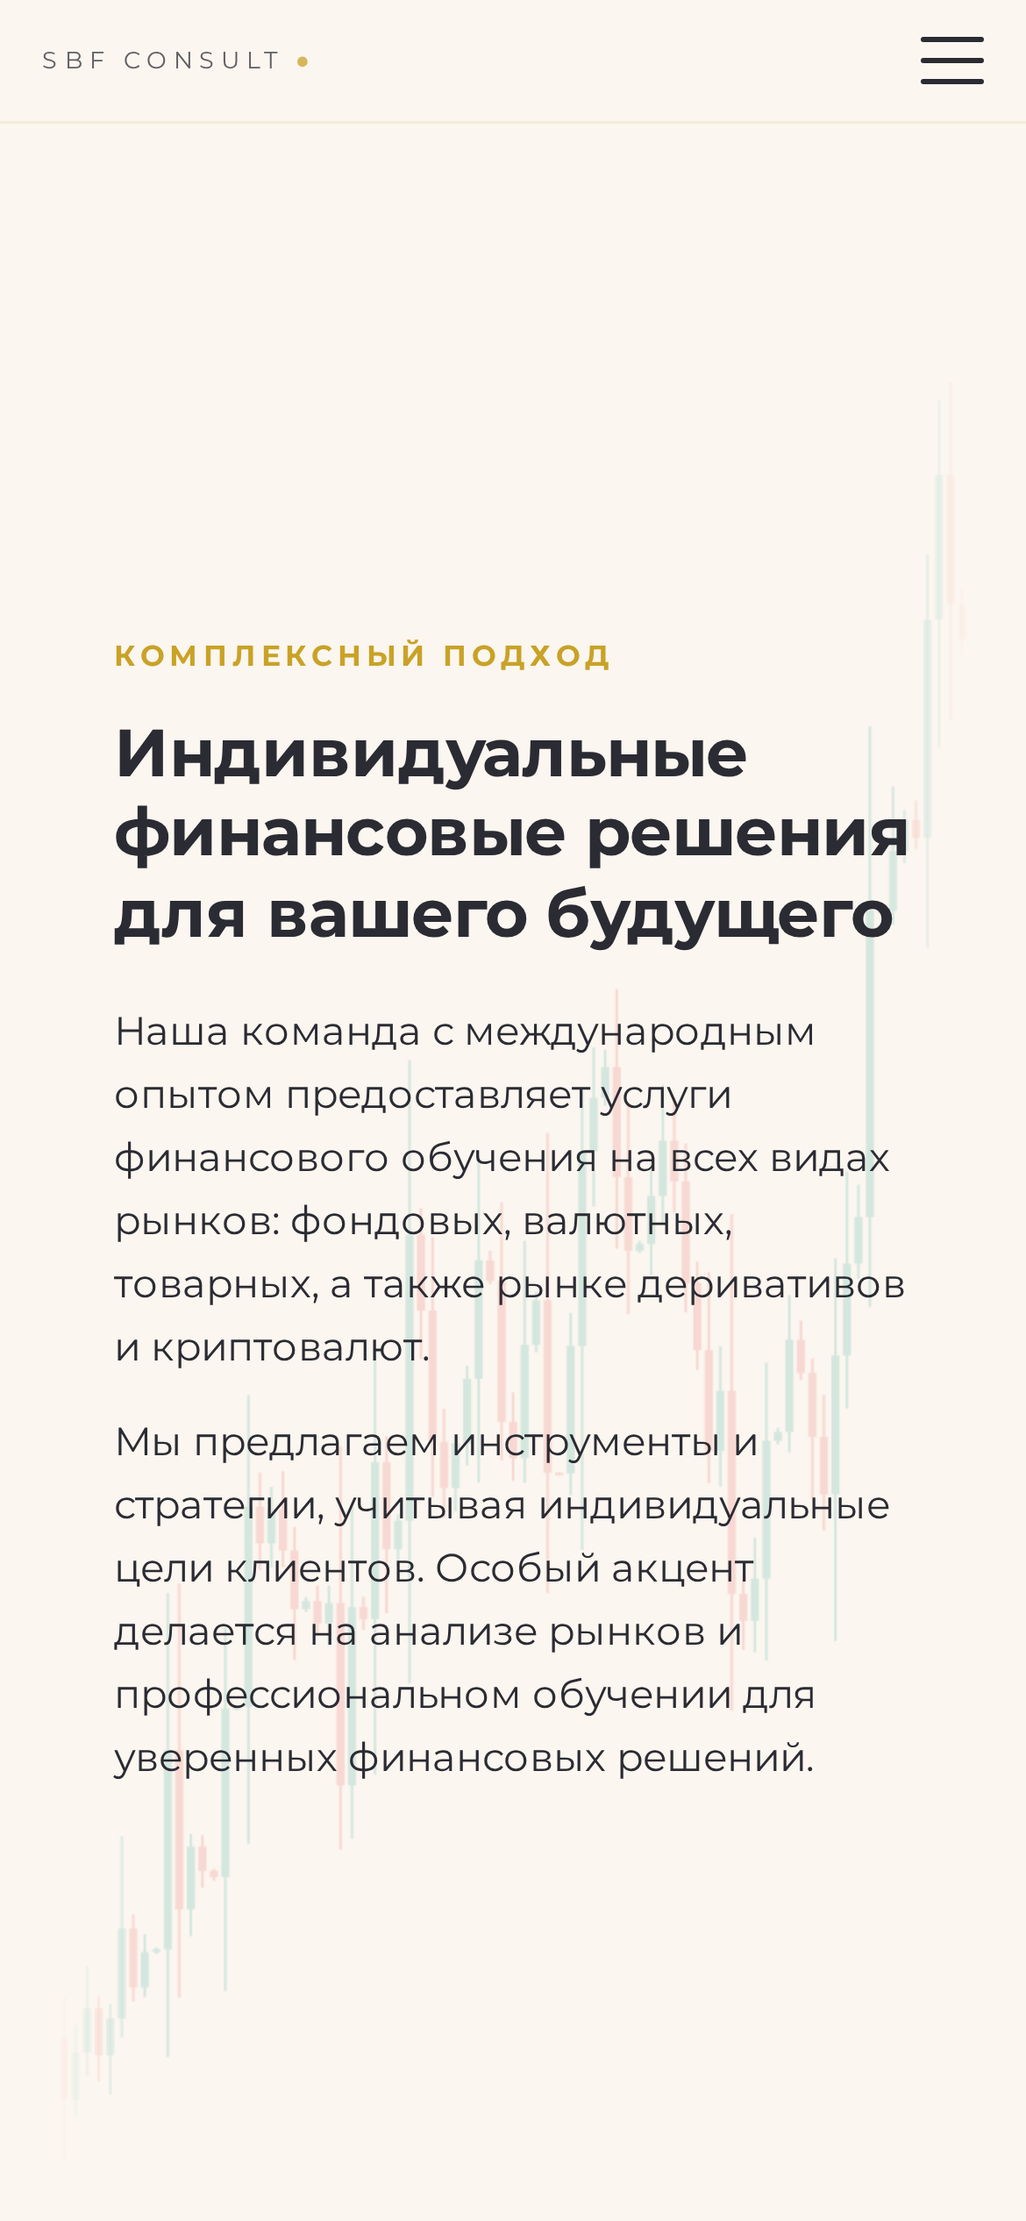
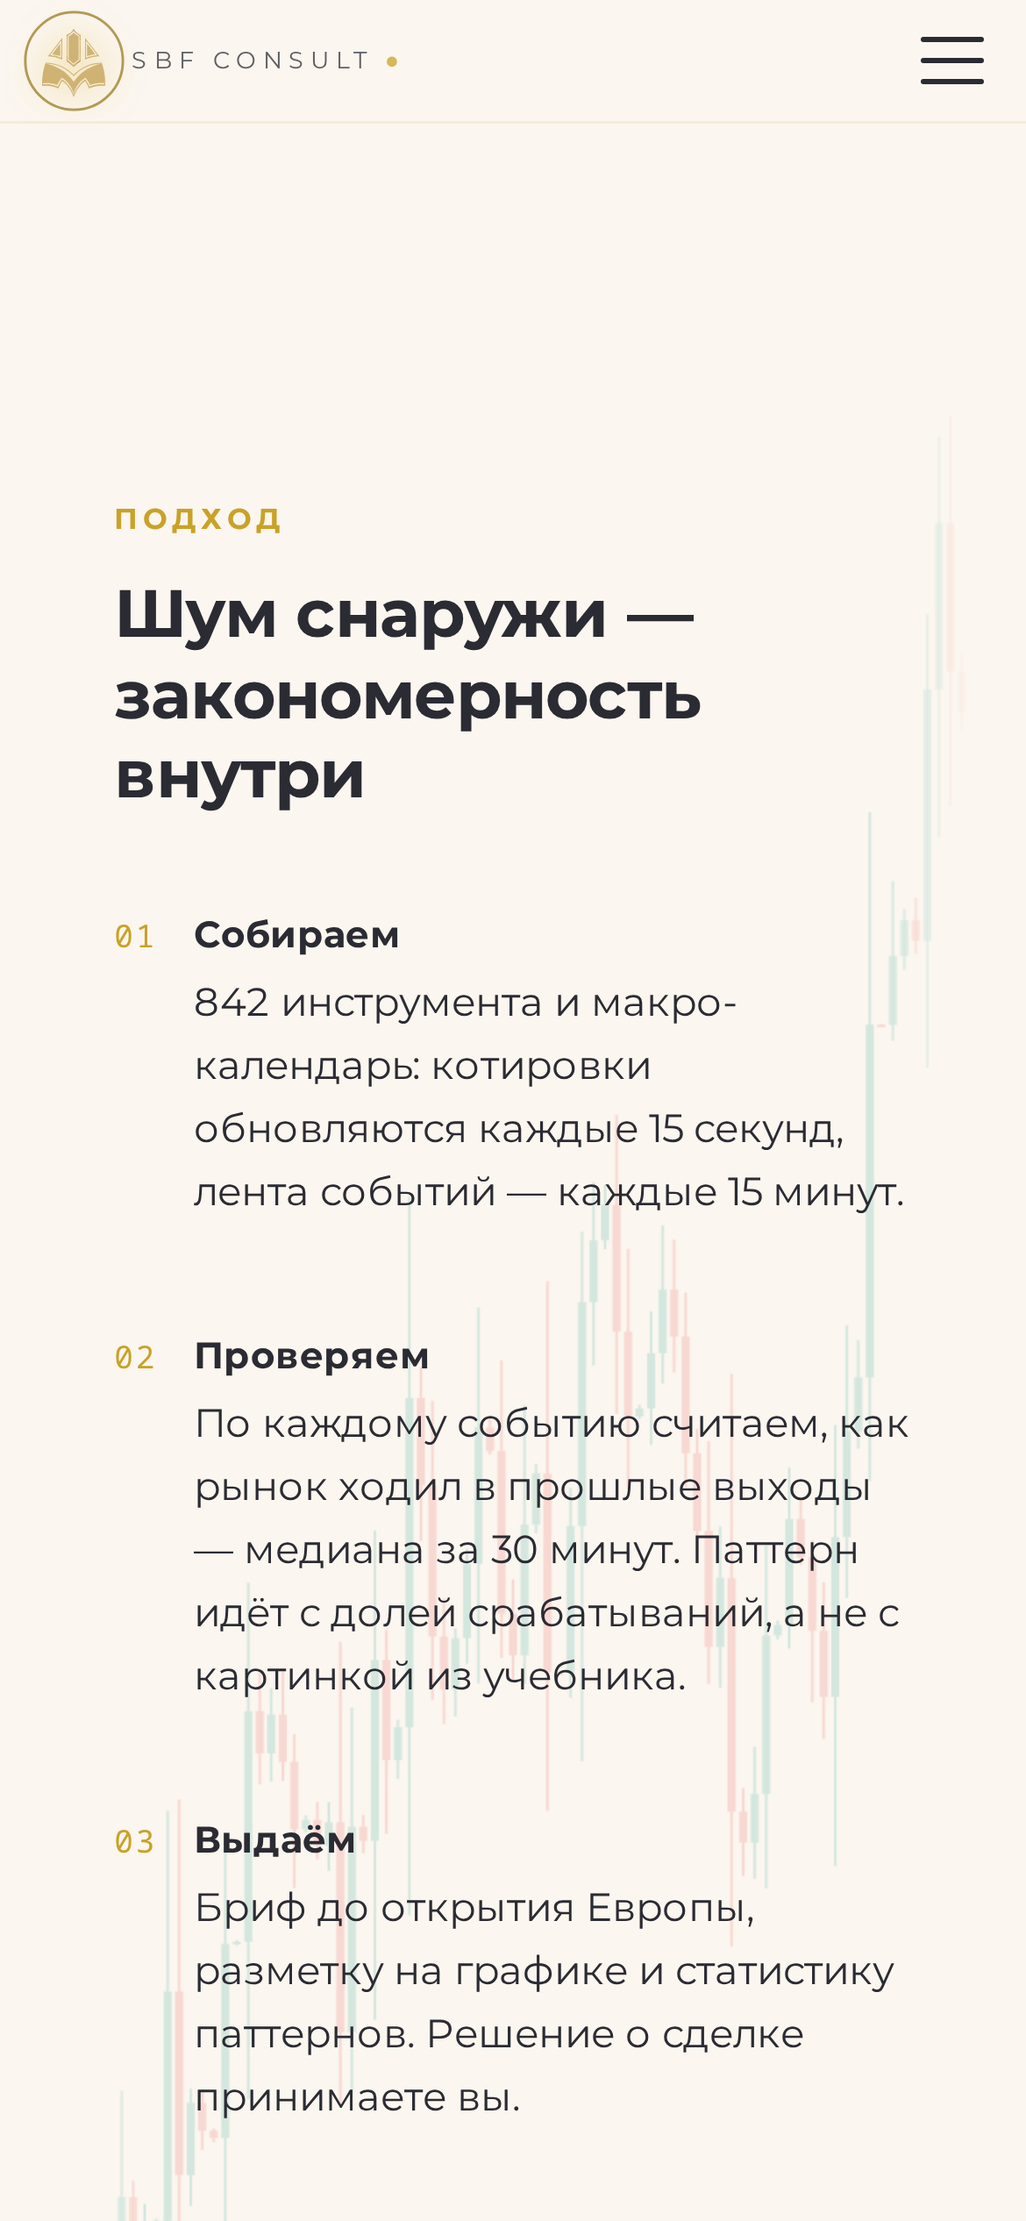
3 экран — подход: три шага с числами вместо двух общих абзацев
- было «Индивидуальные финансовые решения для вашего будущего» и два абзаца,
  которые подошли бы любой компании; стало «Шум снаружи — закономерность внутри»
  и конвейер: собираем (842 инструмента, 15 сек / 15 мин) → проверяем (медиана
  хода за 30 мин по прошлым выходам, доля срабатываний паттерна) → выдаём
  (бриф, разметка, статистика; решение за клиентом)
- легенда линзы: уровень / SMA 20 / паттерн — цвета совпадают с отрисовкой,
  без неё разметка внутри кольца читалась как узор
- лента замирает при наведении на график: рассмотреть разметку на ходу
  было невозможно
- ссылка «как это выглядит в терминале» на живой график XAUUSD
- сцена подхода была жёстко 100vh и с вертикальным центрированием: с тремя
  шагами текст вылезал за оба края, на низком окне третий шаг обрезался —
  высота стала естественной, колонка прижата к верху

diff --git a/js/i18n.js b/js/i18n.js
@@ -69,10 +69,13 @@ ru: {
   },
   approach: {
     lens_cap: 'Снаружи — шум. Внутри — уровни, средняя, паттерн',
-    eyebrow: 'Комплексный подход',
-    heading: 'Индивидуальные финансовые решения для вашего будущего',
-    p1: 'Наша команда с международным опытом предоставляет услуги финансового обучения на всех видах рынков: фондовых, валютных, товарных, а также рынке деривативов и криптовалют.',
-    p2: 'Мы предлагаем инструменты и стратегии, учитывая индивидуальные цели клиентов. Особый акцент делается на анализе рынков и профессиональном обучении для уверенных финансовых решений.',
+    eyebrow: 'Подход',
+    heading: 'Шум снаружи — закономерность внутри',
+    s1: { t: 'Собираем', p: '842 инструмента и макро-календарь: котировки обновляются каждые 15 секунд, лента событий — каждые 15 минут.' },
+    s2: { t: 'Проверяем', p: 'По каждому событию считаем, как рынок ходил в прошлые выходы — медиана за 30 минут. Паттерн идёт с долей срабатываний, а не с картинкой из учебника.' },
+    s3: { t: 'Выдаём', p: 'Бриф до открытия Европы, разметку на графике и статистику паттернов. Решение о сделке принимаете вы.' },
+    cta: 'Как это выглядит в терминале →',
+    lg_level: 'уровень', lg_sma: 'SMA 20', lg_pat: 'паттерн',
   },
   platform: {
     cta: 'ОТКРЫТЬ ПЛАТФОРМУ →',
@@ -357,10 +360,13 @@ en: {
   },
   approach: {
     lens_cap: 'Outside — noise. Inside — levels, average, pattern',
-    eyebrow: 'Comprehensive Approach',
-    heading: 'Individual financial solutions for your future',
-    p1: 'Our internationally experienced team provides financial education services across equity, currency, commodity, derivative, and cryptocurrency markets.',
-    p2: 'We offer tools and strategies tailored to individual client goals, with a strong emphasis on market analysis and professional education for confident financial decisions.',
+    eyebrow: 'Approach',
+    heading: 'Noise outside — pattern inside',
+    s1: { t: 'We collect', p: '842 instruments and the macro calendar: quotes refresh every 15 seconds, the event feed every 15 minutes.' },
+    s2: { t: 'We verify', p: 'For every event we measure how the market moved on previous releases — median over 30 minutes. Each pattern comes with a hit rate, not a textbook picture.' },
+    s3: { t: 'We deliver', p: 'A brief before the European open, markup on the chart and pattern statistics. The trading decision stays yours.' },
+    cta: 'See it in the terminal →',
+    lg_level: 'level', lg_sma: 'SMA 20', lg_pat: 'pattern',
   },
   platform: {
     cta: 'OPEN PLATFORM →',
@@ -644,11 +650,14 @@ ro: {
     cta:       'Deschide platforma →',
   },
   approach: {
-    lens_cap: 'În afară — zgomot. Înăuntru — niveluri, medie, tipar',
-    eyebrow: 'Abordare Complexă',
-    heading: 'Soluții financiare personalizate pentru viitorul tău',
-    p1: 'Echipa noastră cu experiență internațională oferă servicii de educație financiară pe toate tipurile de piețe: acțiuni, valutare, mărfuri, derivate și criptomonede.',
-    p2: 'Oferim instrumente și strategii adaptate obiectivelor individuale ale clienților. Accentul special se pune pe analiza piețelor și formarea profesională pentru decizii financiare sigure.',
+    lens_cap: 'În exterior — zgomot. În interior — niveluri, media, tipar',
+    eyebrow: 'Abordare',
+    heading: 'Zgomot în exterior — tipar în interior',
+    s1: { t: 'Colectăm', p: '842 de instrumente și calendarul macro: cotațiile se actualizează la 15 secunde, fluxul de evenimente la 15 minute.' },
+    s2: { t: 'Verificăm', p: 'Pentru fiecare eveniment măsurăm cum s-a mișcat piața la publicările anterioare — mediana pe 30 de minute. Fiecare tipar vine cu rata de confirmare, nu cu o poză din manual.' },
+    s3: { t: 'Livrăm', p: 'Briefing înainte de deschiderea Europei, marcaj pe grafic și statistica tiparelor. Decizia de tranzacționare vă aparține.' },
+    cta: 'Cum arată în terminal →',
+    lg_level: 'nivel', lg_sma: 'SMA 20', lg_pat: 'tipar',
   },
   platform: {
     cta: 'DESCHIDE PLATFORMA →',

diff --git a/css/scroll-mode.css b/css/scroll-mode.css
@@ -283,6 +283,69 @@ html { scroll-behavior: smooth; }
 }
 
 
+/* ── Подход: три шага ────────────────────────────────────────────────────
+   Вместо двух абзацев «про международный опыт» — конвейер из трёх шагов,
+   в каждом число, которое можно проверить в самом продукте. */
+.approach-steps { list-style: none; margin: 22px 0 0; padding: 0; }
+.approach-steps li {
+  display: grid; grid-template-columns: auto 1fr; gap: 2px 14px;
+  padding: 14px 0; border-top: 1px solid var(--line);
+}
+.approach-steps li:last-child { border-bottom: 1px solid var(--line); }
+.approach-steps .step-n {
+  grid-row: 1 / span 2;
+  font-family: 'JetBrains Mono', monospace; font-size: 12px;
+  color: var(--gold); letter-spacing: 0.08em; padding-top: 2px;
+}
+.approach-steps b {
+  font-family: 'Montserrat', sans-serif; font-size: 14px; font-weight: 700;
+  color: var(--ink); letter-spacing: 0.02em;
+}
+.approach-steps p {
+  margin: 4px 0 0; font-family: 'Montserrat', sans-serif;
+  font-size: 13px; line-height: 1.55; color: #55555F;
+}
+.approach-link {
+  display: inline-block; margin-top: 18px;
+  font-family: 'Montserrat', sans-serif; font-size: 12px; font-weight: 600;
+  letter-spacing: 0.08em; text-transform: uppercase;
+  color: var(--gold-deep); text-decoration: none;
+  border-bottom: 1px solid rgba(201, 162, 39, 0.4);
+}
+.approach-link:hover { border-bottom-color: currentColor; }
+/* На ноутбучном экране (800–860px) ссылка уезжала под сгиб: три шага с
+   заголовком занимали всю высоту. Поджимаем отступы, а не режем текст. */
+@media (min-width: 1024px) and (max-height: 900px) {
+  /* Колонка текста вертикально центрируется в 100vh. Пока в ней было два
+     абзаца, это выглядело спокойно; с тремя шагами и ссылкой она стала
+     выше окна и вылезала за оба края. Прижимаем к верху свободной полосы. */
+  /* Сцена жёстко 100vh: на низком окне (680px) третий шаг обрезался краем.
+     Отдаём ей естественную высоту — секция просто станет чуть выше окна. */
+  #approach-stage { align-items: start; height: auto; min-height: 100vh; padding-bottom: 28px; }
+  #approach-copy { padding-top: 10px; }
+  #approach-copy h2 { font-size: 28px; line-height: 1.15; }
+  .approach-steps { margin-top: 12px; }
+  .approach-steps li { padding: 8px 0; }
+  .approach-steps p { font-size: 12px; line-height: 1.4; }
+  .approach-link { margin-top: 10px; }
+}
+
+/* Легенда линзы: цвета совпадают с тем, что рисует GoldTape внутри кольца */
+.lens-legend {
+  position: absolute; left: 50%; bottom: 8%;
+  transform: translateX(-50%);
+  display: flex; gap: 16px; list-style: none; margin: 0; padding: 0;
+  font-family: 'JetBrains Mono', monospace; font-size: 10px;
+  letter-spacing: 0.1em; text-transform: uppercase; color: var(--muted);
+  pointer-events: none;
+}
+.lens-legend li { display: flex; align-items: center; gap: 6px; }
+.lens-legend i { width: 14px; height: 0; border-top: 2px solid currentColor; display: block; }
+.lens-legend .lg-level i { border-top-style: dashed; color: var(--gold-deep); }
+.lens-legend .lg-sma i { color: var(--gold); }
+.lens-legend .lg-pat i { border-top: 0; height: 8px; width: 8px; border-radius: 50%; background: var(--glow, #E6C257); }
+@media (max-width: 900px) { .lens-legend { display: none; } }
+
 /* ── Вход на act-platform-1 ──────────────────────────────────────────────
    --gate идёт от 0 до 1 вместе с кольцом (ставит js/logo.js через
    data-part → здесь читается как переменная). Пока 0 — скриншот размыт

diff --git a/index.html b/index.html
@@ -338,10 +338,28 @@
   <section class="snap-stop" id="act-approach">
     <div id="approach-stage">
       <div id="approach-copy">
-        <p class="eyebrow" data-i18n="approach.eyebrow">Комплексный подход</p>
-        <h2 data-i18n="approach.heading">Индивидуальные финансовые решения для вашего будущего</h2>
-        <p data-i18n="approach.p1">Наша команда с международным опытом предоставляет услуги финансового обучения на всех видах рынков: фондовых, валютных, товарных, а также рынке деривативов и криптовалют.</p>
-        <p data-i18n="approach.p2">Мы предлагаем инструменты и стратегии, учитывая индивидуальные цели клиентов. Особый акцент делается на анализе рынков и профессиональном обучении для уверенных финансовых решений.</p>
+        <p class="eyebrow" data-i18n="approach.eyebrow">Подход</p>
+        <h2 data-i18n="approach.heading">Шум снаружи — закономерность внутри</h2>
+        <!-- Три шага вместо двух абзацев, которые подошли бы любой компании.
+             В каждом шаге — число, которое можно проверить в продукте. -->
+        <ol class="approach-steps">
+          <li>
+            <span class="step-n">01</span>
+            <b data-i18n="approach.s1.t">Собираем</b>
+            <p data-i18n="approach.s1.p">842 инструмента и макро-календарь: котировки обновляются каждые 15 секунд, лента событий — каждые 15 минут.</p>
+          </li>
+          <li>
+            <span class="step-n">02</span>
+            <b data-i18n="approach.s2.t">Проверяем</b>
+            <p data-i18n="approach.s2.p">По каждому событию считаем, как рынок ходил в прошлые выходы — медиана за 30 минут. Паттерн идёт с долей срабатываний, а не с картинкой из учебника.</p>
+          </li>
+          <li>
+            <span class="step-n">03</span>
+            <b data-i18n="approach.s3.t">Выдаём</b>
+            <p data-i18n="approach.s3.p">Бриф до открытия Европы, разметку на графике и статистику паттернов. Решение о сделке принимаете вы.</p>
+          </li>
+        </ol>
+        <a class="approach-link" target="_blank" rel="noopener" href="https://lp.sbfconsult.com/chart.html?s=XAUUSD&amp;utm_source=sbfconsult_site&amp;utm_medium=cta&amp;utm_campaign=approach" data-i18n="approach.cta">Как это выглядит в терминале →</a>
       </div>
       <div id="approach-chart">
         <!-- Линза. Знак стоит на движущейся ленте свечей; снаружи кольца
@@ -356,6 +374,13 @@
           </svg>
           <span class="mark-cap" data-i18n="approach.lens_cap"></span>
         </div>
+        <!-- Что именно видно внутри кольца: цвета совпадают с отрисовкой
+             в GoldTape._renderLens. Без легенды разметка читалась как узор. -->
+        <ul class="lens-legend" aria-hidden="true">
+          <li class="lg-level"><i></i><span data-i18n="approach.lg_level">уровень</span></li>
+          <li class="lg-sma"><i></i><span data-i18n="approach.lg_sma">SMA 20</span></li>
+          <li class="lg-pat"><i></i><span data-i18n="approach.lg_pat">паттерн</span></li>
+        </ul>
       </div>
     </div>
   </section>

diff --git a/js/acts/act-approach.js b/js/acts/act-approach.js
@@ -220,7 +220,15 @@ async function initApproach() {
   if (document.fonts && document.fonts.ready) document.fonts.ready.then(placeLens);
 
   /* Десктоп: snap-enter / snap-leave */
-  tape.start(); /* GoldTape всегда идёт в фоне */
+  tape.start();
+
+  /* Лента едет постоянно, и рассмотреть разметку внутри линзы не успеваешь.
+     Навёл курсор на график — лента замирает, увёл — снова идёт. */
+  var chart = document.getElementById('approach-chart');
+  if (chart && !window.matchMedia('(hover: none)').matches) {
+    chart.addEventListener('mouseenter', function () { tape.stop(); chart.classList.add('tape-held'); });
+    chart.addEventListener('mouseleave', function () { tape.start(); chart.classList.remove('tape-held'); });
+  } /* GoldTape всегда идёт в фоне */
 
   const section = document.getElementById('act-approach');
 
